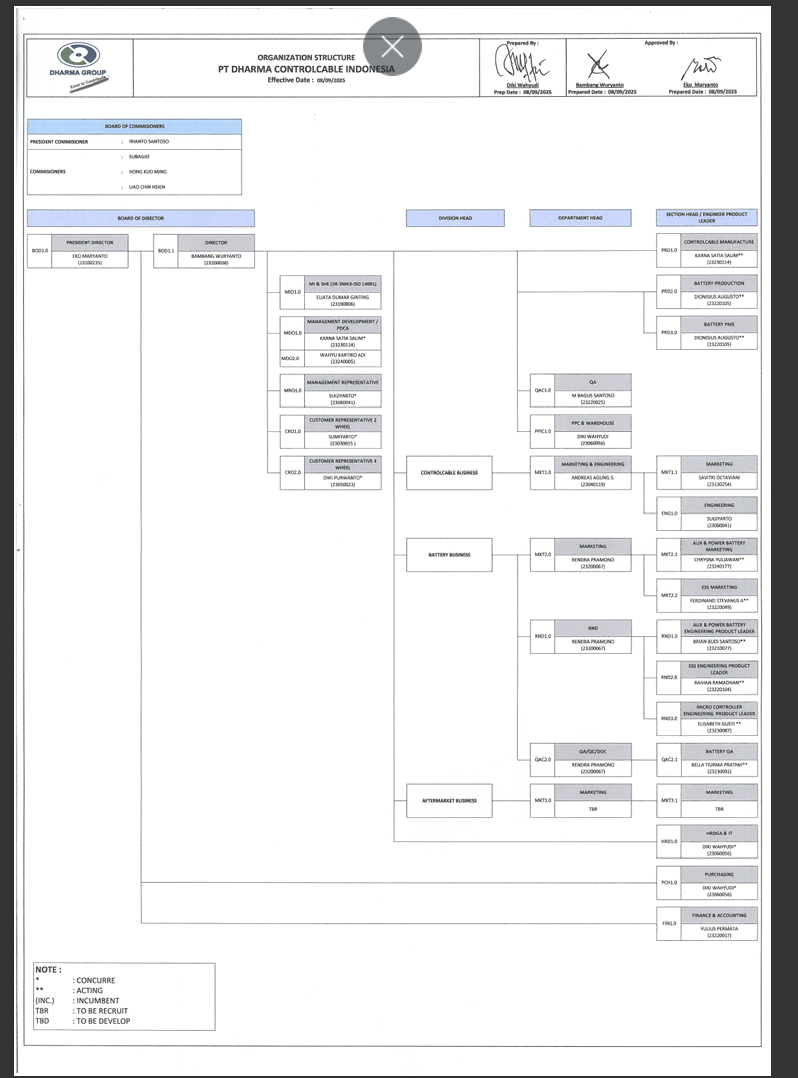
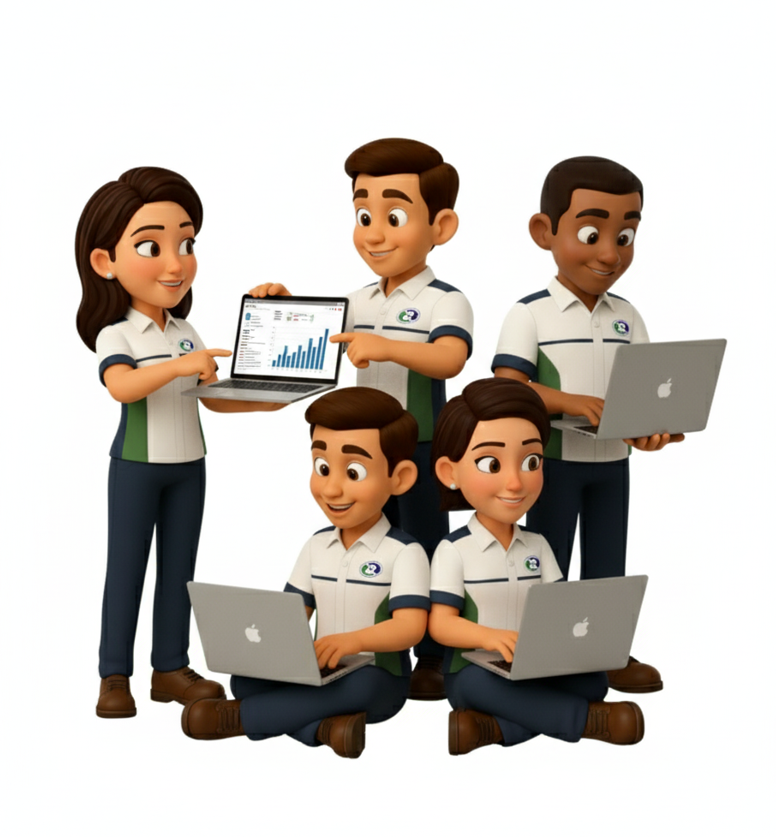
feat: update login page image with new design

diff --git a/frontend/src/pages/Login.jsx b/frontend/src/pages/Login.jsx
@@ -61,7 +61,7 @@ const Login = () => {
       <div className="hidden lg:flex lg:w-1/2 bg-white items-center justify-center p-12">
         <div className="max-w-md">
           <img 
-            src="/dcilogin.png" 
+            src="/so.png"
             alt="Login Illustration" 
             className="w-full h-auto"
           />
